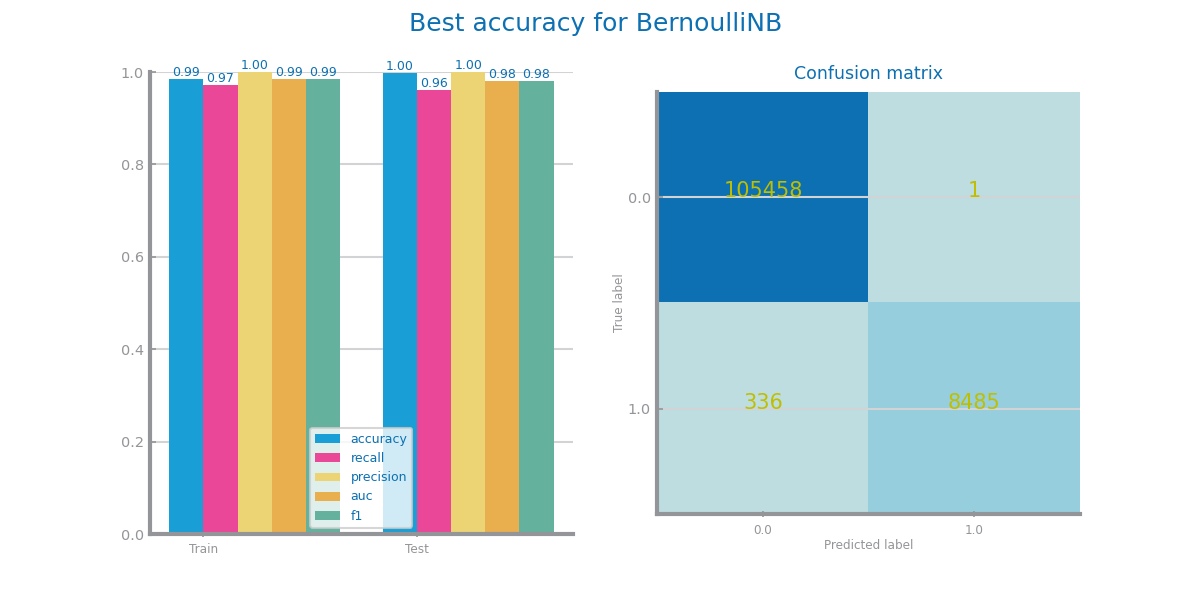
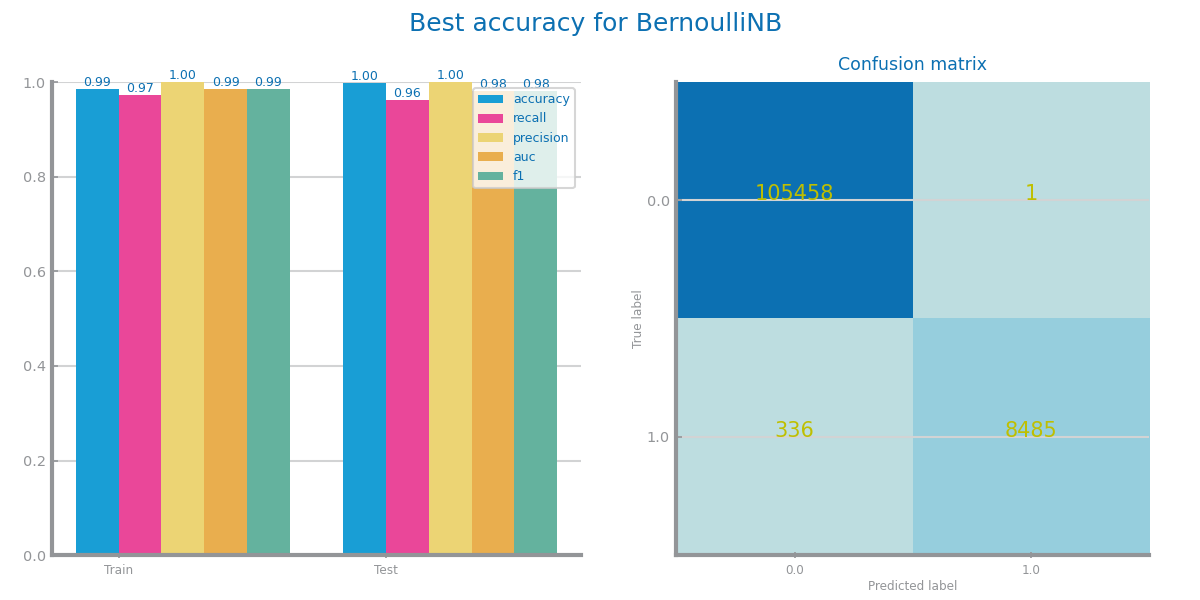
feat: implemented gradient boosting for both datasets.

diff --git a/classification/models/credit_score/gradient_boosting.py b/classification/models/credit_score/gradient_boosting.py
@@ -1,0 +1,122 @@
+import matplotlib.pyplot as plt
+from numpy import argsort, std
+from sklearn.ensemble import GradientBoostingClassifier
+
+from utils.dslabs_functions import read_train_test_from_files, gradient_boosting_study, plot_evaluation_results, \
+    plot_horizontal_bar_chart, plot_multiline_chart, CLASS_EVAL_METRICS
+
+train_filename = "../../data/credit_score/processed_data/class_credit_score_train_under.csv"
+test_filename = "../../data/credit_score/processed_data/class_credit_score_test.csv"
+credit_score_file_tag: str = "class_credit_score"
+target = "Credit_Score"
+
+run_sampling = True
+sampling_amount = 0.01 if run_sampling else 1
+
+trnX, tstX, trnY, tstY, labels, vars = read_train_test_from_files(train_filename, test_filename, target,
+                                                                  sampling_amount)
+print(f'Train#={len(trnX)} Test#={len(tstX)}')
+print(f'Labels={labels}')
+
+# ----------------------------
+# Parameter Study
+# ----------------------------
+
+eval_metric = "accuracy"
+
+plt.figure()
+best_model, params = gradient_boosting_study(
+    trnX,
+    trnY,
+    tstX,
+    tstY,
+    nr_max_trees=1000,
+    lag=250,
+    metric=eval_metric,
+)
+plt.tight_layout()
+plt.savefig(f"images/{credit_score_file_tag}_gb_{eval_metric}_study.png")
+plt.show()
+plt.clf()
+
+# Best alternative: 1000 trees (d=2 and lr=0.1)
+
+# ----------------------------
+# Performance Analysis
+# ----------------------------
+
+prd_trn = best_model.predict(trnX)
+prd_tst = best_model.predict(tstX)
+plt.figure()
+plot_evaluation_results(params, trnY, prd_trn, tstY, prd_tst, labels, file_tag=credit_score_file_tag)
+plt.tight_layout()
+plt.show()
+plt.clf()
+
+# ----------------------------
+# Variable Importance
+# ----------------------------
+
+trees_importances: list[float] = []
+for lst_trees in best_model.estimators_:
+    for tree in lst_trees:
+        trees_importances.append(tree.feature_importances_)
+
+stdevs: list[float] = list(std(trees_importances, axis=0))
+importances = best_model.feature_importances_
+indices: list[int] = argsort(importances)[::-1]
+elems: list[str] = []
+imp_values: list[float] = []
+for f in range(len(vars)):
+    elems += [vars[indices[f]]]
+    imp_values.append(importances[indices[f]])
+    print(f"{f + 1}. {elems[f]} ({importances[indices[f]]})")
+
+plt.figure()
+plot_horizontal_bar_chart(
+    elems,
+    imp_values,
+    error=stdevs,
+    title="GB variables importance",
+    xlabel="importance",
+    ylabel="variables",
+    percentage=True,
+)
+plt.tight_layout()
+plt.savefig(f"images/{credit_score_file_tag}_gb_{eval_metric}_vars_ranking.png")
+plt.show()
+plt.clf()
+
+# ----------------------------
+# Overfitting Analysis
+# ----------------------------
+
+d_max: int = params["params"][0]
+lr: float = params["params"][1]
+nr_estimators: list[int] = [i for i in range(2, 2501, 500)]
+
+y_tst_values: list[float] = []
+y_trn_values: list[float] = []
+acc_metric: str = "accuracy"
+
+for n in nr_estimators:
+    clf = GradientBoostingClassifier(n_estimators=n, max_depth=d_max, learning_rate=lr)
+    clf.fit(trnX, trnY)
+    prd_tst_Y = clf.predict(tstX)
+    prd_trn_Y = clf.predict(trnX)
+    y_tst_values.append(CLASS_EVAL_METRICS[acc_metric](tstY, prd_tst_Y))
+    y_trn_values.append(CLASS_EVAL_METRICS[acc_metric](trnY, prd_trn_Y))
+
+plt.figure()
+plot_multiline_chart(
+    nr_estimators,
+    {"Train": y_trn_values, "Test": y_tst_values},
+    title=f"GB overfitting study for d={d_max} and lr={lr}",
+    xlabel="nr_estimators",
+    ylabel=str(eval_metric),
+    percentage=True,
+)
+plt.tight_layout()
+plt.savefig(f"images/{credit_score_file_tag}_gb_{eval_metric}_overfitting.png")
+plt.show()
+plt.clf()

diff --git a/classification/models/pos_covid/gradient_boosting.py b/classification/models/pos_covid/gradient_boosting.py
@@ -1,0 +1,122 @@
+import matplotlib.pyplot as plt
+from numpy import argsort, std
+from sklearn.ensemble import GradientBoostingClassifier
+
+from utils.dslabs_functions import read_train_test_from_files, gradient_boosting_study, plot_evaluation_results, \
+    plot_horizontal_bar_chart, plot_multiline_chart, CLASS_EVAL_METRICS
+
+train_filename = "../../data/pos_covid/processed_data/class_pos_covid_train_over.csv"
+test_filename = "../../data/pos_covid/processed_data/class_pos_covid_test.csv"
+pos_covid_file_tag: str = "class_pos_covid"
+target = "CovidPos"
+
+run_sampling = True
+sampling_amount = 0.01 if run_sampling else 1
+
+trnX, tstX, trnY, tstY, labels, vars = read_train_test_from_files(train_filename, test_filename, target,
+                                                                  sampling_amount)
+print(f'Train#={len(trnX)} Test#={len(tstX)}')
+print(f'Labels={labels}')
+
+# ----------------------------
+# Parameter Study
+# ----------------------------
+
+eval_metric = "accuracy"
+
+plt.figure()
+best_model, params = gradient_boosting_study(
+    trnX,
+    trnY,
+    tstX,
+    tstY,
+    nr_max_trees=1000,
+    lag=250,
+    metric=eval_metric,
+)
+plt.tight_layout()
+plt.savefig(f"images/{pos_covid_file_tag}_gb_{eval_metric}_study.png")
+plt.show()
+plt.clf()
+
+# Best alternative: 100 trees (d=2 and lr=0.1)
+
+# ----------------------------
+# Performance Analysis
+# ----------------------------
+
+prd_trn = best_model.predict(trnX)
+prd_tst = best_model.predict(tstX)
+plt.figure()
+plot_evaluation_results(params, trnY, prd_trn, tstY, prd_tst, labels, file_tag=pos_covid_file_tag)
+plt.tight_layout()
+plt.show()
+plt.clf()
+
+# ----------------------------
+# Variable Importance
+# ----------------------------
+
+trees_importances: list[float] = []
+for lst_trees in best_model.estimators_:
+    for tree in lst_trees:
+        trees_importances.append(tree.feature_importances_)
+
+stdevs: list[float] = list(std(trees_importances, axis=0))
+importances = best_model.feature_importances_
+indices: list[int] = argsort(importances)[::-1]
+elems: list[str] = []
+imp_values: list[float] = []
+for f in range(len(vars)):
+    elems += [vars[indices[f]]]
+    imp_values.append(importances[indices[f]])
+    print(f"{f + 1}. {elems[f]} ({importances[indices[f]]})")
+
+plt.figure()
+plot_horizontal_bar_chart(
+    elems,
+    imp_values,
+    error=stdevs,
+    title="GB variables importance",
+    xlabel="importance",
+    ylabel="variables",
+    percentage=True,
+)
+plt.tight_layout()
+plt.savefig(f"images/{pos_covid_file_tag}_gb_{eval_metric}_vars_ranking.png")
+plt.show()
+plt.clf()
+
+# ----------------------------
+# Overfitting Analysis
+# ----------------------------
+
+d_max: int = params["params"][0]
+lr: float = params["params"][1]
+nr_estimators: list[int] = [i for i in range(2, 2501, 500)]
+
+y_tst_values: list[float] = []
+y_trn_values: list[float] = []
+acc_metric: str = "accuracy"
+
+for n in nr_estimators:
+    clf = GradientBoostingClassifier(n_estimators=n, max_depth=d_max, learning_rate=lr)
+    clf.fit(trnX, trnY)
+    prd_tst_Y = clf.predict(tstX)
+    prd_trn_Y = clf.predict(trnX)
+    y_tst_values.append(CLASS_EVAL_METRICS[acc_metric](tstY, prd_tst_Y))
+    y_trn_values.append(CLASS_EVAL_METRICS[acc_metric](trnY, prd_trn_Y))
+
+plt.figure()
+plot_multiline_chart(
+    nr_estimators,
+    {"Train": y_trn_values, "Test": y_tst_values},
+    title=f"GB overfitting study for d={d_max} and lr={lr}",
+    xlabel="nr_estimators",
+    ylabel=str(eval_metric),
+    percentage=True,
+)
+plt.tight_layout()
+plt.savefig(f"images/{pos_covid_file_tag}_gb_{eval_metric}_overfitting.png")
+plt.show()
+plt.clf()

diff --git a/utils/dslabs_functions.py b/utils/dslabs_functions.py
@@ -14,12 +14,12 @@ from matplotlib.container import BarContainer
 from matplotlib.dates import AutoDateLocator, AutoDateFormatter
 from matplotlib.figure import Figure
 from matplotlib.font_manager import FontProperties
-from matplotlib.pyplot import gca, gcf, savefig, subplots, show
+from matplotlib.pyplot import gca, gcf, savefig, subplots, show, tight_layout
 from numpy import arange, ndarray, set_printoptions, array
 from numpy import log
 from pandas import DataFrame, read_csv, concat, unique, to_numeric, to_datetime, Series, Index, Period
 from scipy.stats import norm, expon, lognorm
-from sklearn.ensemble import RandomForestClassifier
+from sklearn.ensemble import RandomForestClassifier, GradientBoostingClassifier
 from sklearn.impute import SimpleImputer, KNNImputer
 from sklearn.metrics import accuracy_score, recall_score, precision_score, roc_auc_score, f1_score
 from sklearn.metrics import confusion_matrix, RocCurveDisplay
@@ -835,6 +835,7 @@ def plot_evaluation_results(model, trn_y, prd_trn, tst_y, prd_tst, labels: ndarr
 
     cnf_mtx_tst = confusion_matrix(tst_y, prd_tst, labels=labels)
     plot_confusion_matrix(cnf_mtx_tst, labels, ax=axs[1])
+    tight_layout()
     savefig(f'images/{file_tag}_{model['name']}_best_{model['metric']}_eval.png')
     return axs
 
@@ -1144,4 +1145,59 @@ def random_forests_study(
     print(
         f'RF best for {best_params["params"][2]} trees (d={best_params["params"][0]} and f={best_params["params"][1]})'
     )
+    return best_model, best_params
+
+
+def gradient_boosting_study(
+        trnX: ndarray,
+        trnY: array,
+        tstX: ndarray,
+        tstY: array,
+        nr_max_trees: int = 2500,
+        lag: int = 500,
+        metric: str = "accuracy",
+) -> tuple[GradientBoostingClassifier | None, dict]:
+    n_estimators: list[int] = [100] + [i for i in range(500, nr_max_trees + 1, lag)]
+    max_depths: list[int] = [2, 5, 7]
+    learning_rates: list[float] = [0.1, 0.3, 0.5, 0.7, 0.9]
+
+    best_model: GradientBoostingClassifier | None = None
+    best_params: dict = {"name": "GB", "metric": metric, "params": ()}
+    best_performance: float = 0.0
+
+    values: dict = {}
+    cols: int = len(max_depths)
+    _, axs = subplots(1, cols, figsize=(cols * HEIGHT, HEIGHT), squeeze=False)
+    for i in range(len(max_depths)):
+        d: int = max_depths[i]
+        values = {}
+        for lr in learning_rates:
+            y_tst_values: list[float] = []
+            for n in n_estimators:
+                clf = GradientBoostingClassifier(
+                    n_estimators=n, max_depth=d, learning_rate=lr
+                )
+                clf.fit(trnX, trnY)
+                prdY: array = clf.predict(tstX)
+                eval: float = CLASS_EVAL_METRICS[metric](tstY, prdY)
+                y_tst_values.append(eval)
+                if eval - best_performance > DELTA_IMPROVE:
+                    best_performance = eval
+                    best_params["params"] = (d, lr, n)
+                    best_model = clf
+                # print(f'GB d={d} lr={lr} n={n}')
+            values[lr] = y_tst_values
+        plot_multiline_chart(
+            n_estimators,
+            values,
+            ax=axs[0, i],
+            title=f"Gradient Boosting with max_depth={d}",
+            xlabel="nr estimators",
+            ylabel=metric,
+            percentage=True,
+        )
+    print(
+        f'GB best for {best_params["params"][2]} trees (d={best_params["params"][0]} and lr={best_params["params"][1]}'
+    )
+
     return best_model, best_params
